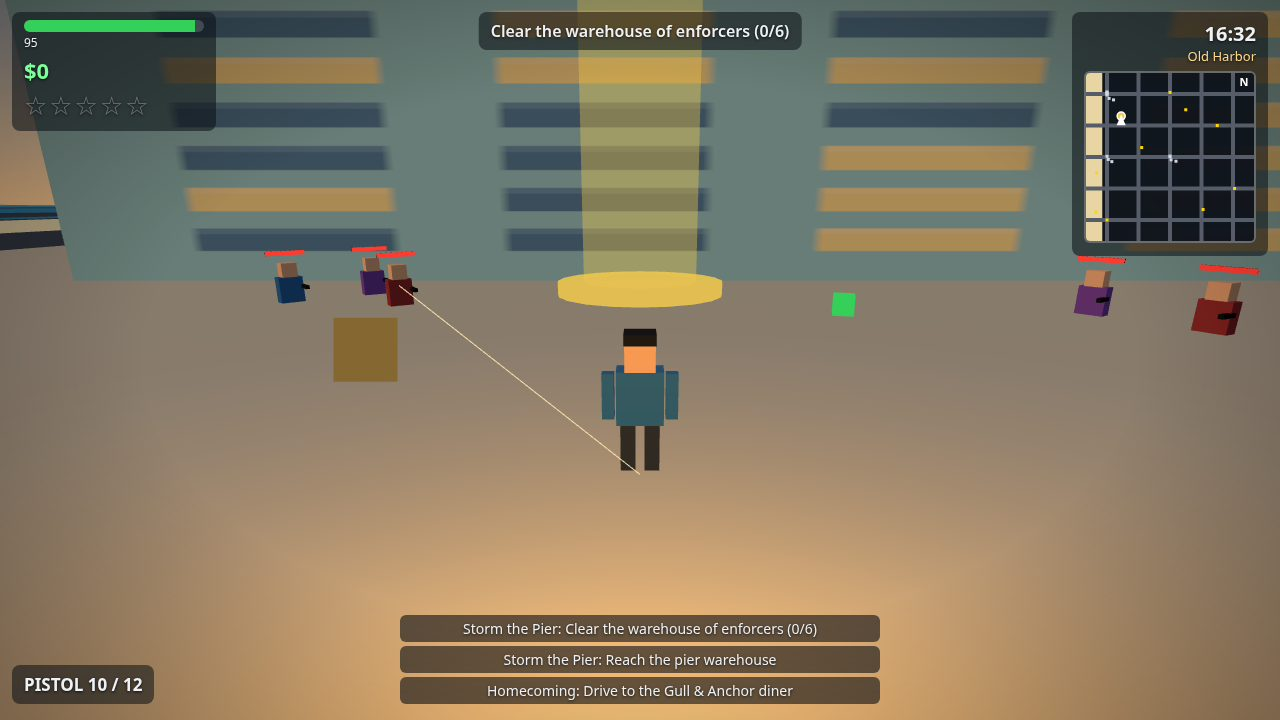
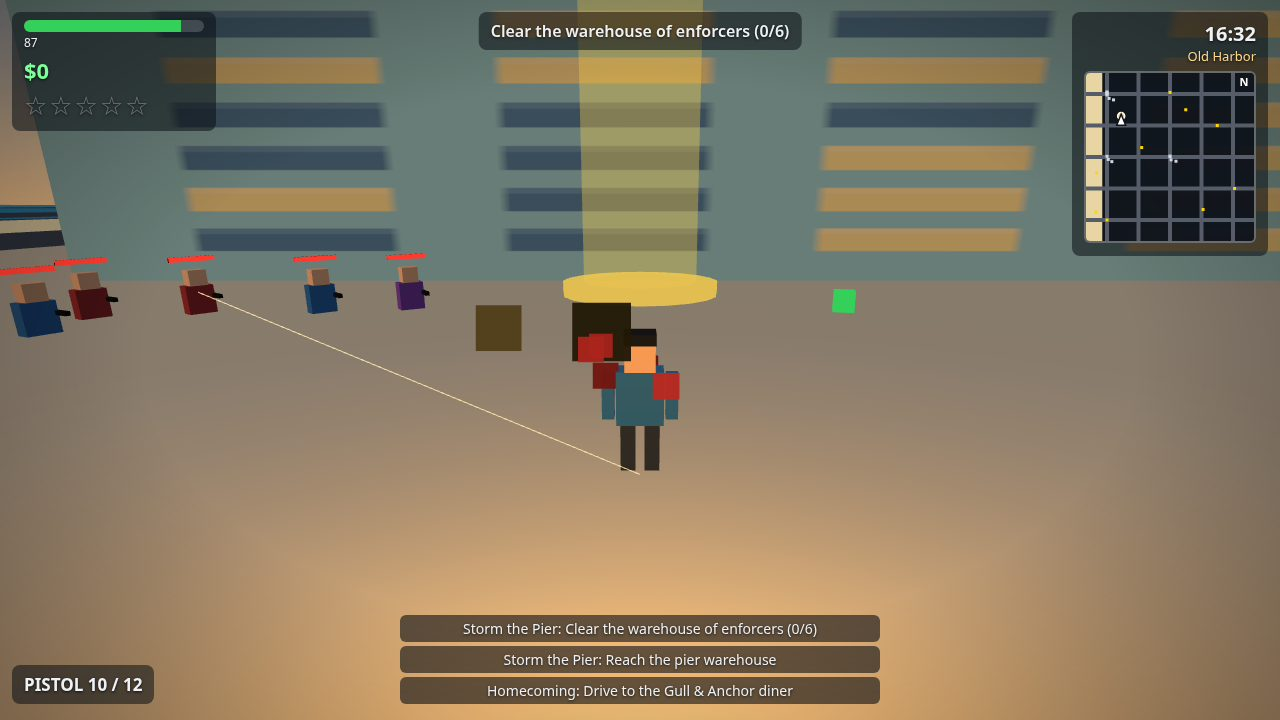
SOLMARA (r7): revision pass — every file edited twice, gameplay fixes

diff --git a/game/src/police.js b/game/src/police.js
@@ -118,6 +118,7 @@ export function createPolice(scene, rng) {
         if (c.group.userData.lightR) c.group.userData.lightR.material.color.setHex(on ? 0x2a6bff : 0x000055);
       }
       // Foot officers walk at the player; pinning him on foot ~2 s = BUSTED.
+      // They respect building colliders (they used to walk straight through walls).
       for (const cop of cops) {
         const dx = pp.x - cop.pos.x;
         const dz = pp.z - cop.pos.z;
@@ -125,6 +126,19 @@ export function createPolice(scene, rng) {
         if (d > 0.5) {
           cop.pos.x += (dx / d) * cop.speed * dt;
           cop.pos.z += (dz / d) * cop.speed * dt;
+          for (const c of G.city.colliders) {
+            const nx = Math.max(c.minX, Math.min(cop.pos.x, c.maxX));
+            const nz = Math.max(c.minZ, Math.min(cop.pos.z, c.maxZ));
+            let ox = cop.pos.x - nx;
+            let oz = cop.pos.z - nz;
+            const d2 = ox * ox + oz * oz;
+            if (d2 < 0.36) {
+              if (d2 < 1e-6) { ox = 0.6; oz = 0; }
+              const dd = Math.sqrt(ox * ox + oz * oz);
+              cop.pos.x = nx + (ox / dd) * 0.6;
+              cop.pos.z = nz + (oz / dd) * 0.6;
+            }
+          }
           cop.group.position.copy(cop.pos);
           cop.group.rotation.y = Math.atan2(dx, dz);
         }

diff --git a/game/src/world.js b/game/src/world.js
@@ -56,6 +56,13 @@ export function createWorld(rng, spawns) {
     return 'Calle Verde';
   }
 
+  // True when a point sits on a road (within 7 m of a centre line) — used
+  // to keep spawns and waypoints out of building footprints.
+  function isOnRoad(x, z) {
+    for (const r of ROADS) if (Math.abs(x - r) < 7 || Math.abs(z - r) < 7) return true;
+    return false;
+  }
+
   function clampToCity(x, z) {
     return {
       x: Math.max(-CITY.half + 4, Math.min(CITY.half - 4, x)),
@@ -63,5 +70,5 @@ export function createWorld(rng, spawns) {
     };
   }
 
-  return { nearestRoad, randomRoadPoint, randomLoop, randomSidewalkPoint, district, clampToCity, spawns };
+  return { nearestRoad, randomRoadPoint, randomLoop, randomSidewalkPoint, district, clampToCity, isOnRoad, spawns };
 }

diff --git a/game/src/hud.js b/game/src/hud.js
@@ -36,6 +36,17 @@ export function createHud() {
     feed,
     show(inGame) { hud.style.display = inGame ? 'block' : 'none'; },
     objective(text) { if (text !== last.objective) { last.objective = text; objectiveEl.textContent = text; } },
+    /** Big centre announcement that fades back to the objective after 3 s. */
+    banner(text) {
+      objectiveEl.textContent = text;
+      objectiveEl.style.fontSize = '22px';
+      objectiveEl.style.color = '#ffd21f';
+      setTimeout(() => {
+        objectiveEl.style.fontSize = '';
+        objectiveEl.style.color = '';
+        objectiveEl.textContent = last.objective;
+      }, 3000);
+    },
     update(dt, G) {
       for (let i = feedItems.length - 1; i >= 0; i -= 1) {
         feedItems[i].ttl -= dt;

diff --git a/game/src/main.js b/game/src/main.js
@@ -159,7 +159,7 @@ G.events = {
     G.money -= bill;
     writeSave({ money: G.money, missionsDone: missions.index(), shells: G.collectedShells, best: G.stats });
     document.getElementById('wasted-text').textContent = `Hospital bill $${bill}. Mama Izzy is not pleased.`;
-    audio.fail();
+    audio.wasted();
     audio.siren(false);
     showScreen('wasted');
   },
@@ -340,6 +340,7 @@ function startGame(fresh) {
   resetWorld(seed);
   G.screen = 'play';
   showScreen('play');
+  hud.banner(fresh ? 'WELCOME TO SOLMARA' : 'WELCOME BACK, ROOK');
   hud.feed(fresh ? 'New game — welcome back to Solmara, Rook.' : `Welcome back, Rook. $${G.money.toLocaleString('en-US')} in your pocket.`);
 }
 

diff --git a/game/src/player.js b/game/src/player.js
@@ -85,7 +85,9 @@ export function createPlayer(scene) {
       state.camYaw -= mouse.x * 0.0028;
       state.camPitch = Math.max(-0.15, Math.min(0.9, state.camPitch + mouse.y * 0.0022));
       const mv = input.move();
-      const speed = input.sprint() ? PLAYER.sprintSpeed : PLAYER.walkSpeed;
+      // Jumps commit you: steering authority in the air is less than half.
+      const airFactor = state.grounded ? 1 : 0.45;
+      const speed = (input.sprint() ? PLAYER.sprintSpeed : PLAYER.walkSpeed) * airFactor;
       const sin = Math.sin(state.camYaw);
       const cos = Math.cos(state.camYaw);
       // Forward on screen is -Z rotated by camYaw; strafe is perpendicular.

diff --git a/main.ts b/main.ts
@@ -24,6 +24,7 @@ mkdirSync(out, { recursive: true });
 cpSync(join(here, 'game'), join(out, 'game'), { recursive: true });
 mkdirSync(join(out, 'screenshots'), { recursive: true });
 if (existsSync(join(here, 'screenshots'))) cpSync(join(here, 'screenshots'), join(out, 'screenshots'), { recursive: true });
+else throw new Error('no screenshots/ next to main.ts — run the CDP shot driver first');
 
 // The scorer's own caps (reference/gate.json): only text_max_bytes shapes the bytes; the others refuse an entry the
 // scorer would refuse (more than 4 screenshots or one over 256 KiB; more than 993 files in game/ or 48 MiB of game

diff --git a/game/src/random.js b/game/src/random.js
@@ -13,3 +13,12 @@ export function createRandom(seed) {
 export function range(rng, min, max) { return min + rng() * (max - min); }
 export function pick(rng, arr) { return arr[Math.floor(rng() * arr.length)]; }
 export function chance(rng, p) { return rng() < p; }
+// Fisher-Yates shuffle that returns a new array, leaving the input untouched.
+export function shuffle(arr, rng) {
+  const out = arr.slice();
+  for (let i = out.length - 1; i > 0; i -= 1) {
+    const j = Math.floor(rng() * (i + 1));
+    [out[i], out[j]] = [out[j], out[i]];
+  }
+  return out;
+}

diff --git a/game/src/render.js b/game/src/render.js
@@ -91,8 +91,11 @@ export function createRenderer(canvas) {
     // placeCamera is exported here — shots.js and the main loop use it.
     placeCamera,
     update(dt) {
-      for (const c of clouds) {
+      for (let i = 0; i < clouds.length; i += 1) {
+        const c = clouds[i];
         c.position.x += dt * 2.2;
+        // Gentle cross-drift so the sky never looks frozen.
+        c.position.z += Math.sin(performance.now() * 0.0001 + i * 1.7) * dt * 0.6;
         if (c.position.x > 620) c.position.x = -620;
       }
     },

diff --git a/game/src/audio.js b/game/src/audio.js
@@ -101,6 +101,7 @@ export function createAudio() {
     coin() { tone(988, 0.08, 'triangle', 0.15); tone(1319, 0.14, 'triangle', 0.15, 0.06); },
     jingle() { [523, 659, 784, 1047].forEach((f, i) => tone(f, 0.22, 'triangle', 0.2, i * 0.11)); },
     fail() { tone(220, 0.3, 'sawtooth', 0.15); tone(165, 0.4, 'sawtooth', 0.15, 0.15); },
+    wasted() { [392, 311, 233, 175].forEach((f, i) => tone(f, 0.35, 'triangle', 0.18, i * 0.22)); },
     update(dt, driving) {
       if (!ctx || muted) return;
       musicTimer += dt;

diff --git a/game/src/save.js b/game/src/save.js
@@ -27,6 +27,11 @@ export function writeSave(data) {
   } catch (e) { /* storage off: the run lasts this visit only */ }
 }
 
+/** A fresh save: New Game uses this so the shape lives in one place. */
+export function defaultSave() {
+  return { money: 0, missionsDone: 0, shells: [], best: { earned: 0, busted: 0 } };
+}
+
 export function clearSave() {
   try { window.localStorage.removeItem(SAVE_KEY); } catch (e) { /* ignore */ }
 }

diff --git a/game/src/minimap.js b/game/src/minimap.js
@@ -76,6 +76,10 @@ export function createMinimap() {
     ctx.beginPath();
     ctx.moveTo(0, -6); ctx.lineTo(4.5, 5); ctx.lineTo(-4.5, 5); ctx.closePath();
     ctx.fill();
+    // Dark outline so the arrow reads over pale sand and bright roads.
+    ctx.strokeStyle = '#111418';
+    ctx.lineWidth = 1.5;
+    ctx.stroke();
     ctx.restore();
     // North indicator.
     ctx.fillStyle = '#fff';

diff --git a/game/src/input.js b/game/src/input.js
@@ -63,5 +63,7 @@ export function createInput(canvas) {
     takeMouse() { const d = { x: mouseDX, y: mouseDY }; mouseDX = 0; mouseDY = 0; return d; },
     takeActions() { const t = actions; actions = 0; return t; },
     locked() { return locked; },
+    /** True while any key is held — for "press any key" prompts. */
+    anyKey() { return held.size > 0; },
   };
 }
